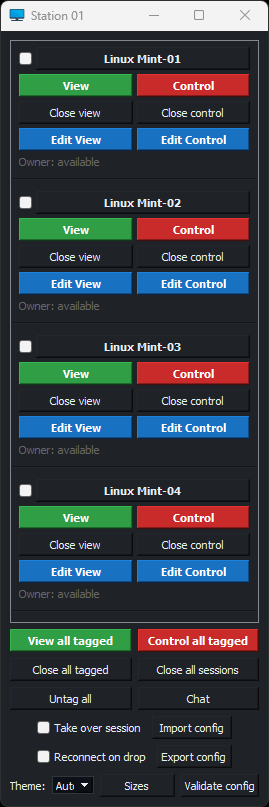
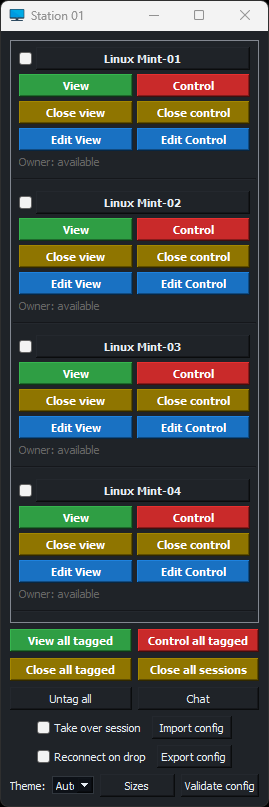
Updated Readme added som colors.

diff --git a/app/main_window.py b/app/main_window.py
@@ -71,11 +71,9 @@ class ConnectionRow:
         outer.addLayout(name_row)
 
         self.view_btn = QPushButton("View")
-        self.view_btn.setStyleSheet("background:#2f9e44; color:white; font-weight:700;")
         self.view_btn.clicked.connect(lambda: callbacks["open"](entry.name, MODE_VIEW))
 
         self.control_btn = QPushButton("Control")
-        self.control_btn.setStyleSheet("background:#c92a2a; color:white; font-weight:700;")
         self.control_btn.clicked.connect(lambda: callbacks["open"](entry.name, MODE_CONTROL))
         action_row = QHBoxLayout()
         action_row.addWidget(self.view_btn)
@@ -93,14 +91,10 @@ class ConnectionRow:
         outer.addLayout(close_row)
 
         self.edit_view_btn = QPushButton("Edit View")
-        self.edit_view_btn.setStyleSheet("background:#1971c2; color:white; font-weight:700;")
         self.edit_view_btn.clicked.connect(lambda: callbacks["edit"](entry.name, MODE_VIEW))
-        self.edit_view_btn.setEnabled(entry.view_vnc_path is not None)
 
         self.edit_control_btn = QPushButton("Edit Control")
-        self.edit_control_btn.setStyleSheet("background:#1971c2; color:white; font-weight:700;")
         self.edit_control_btn.clicked.connect(lambda: callbacks["edit"](entry.name, MODE_CONTROL))
-        self.edit_control_btn.setEnabled(entry.control_vnc_path is not None)
         edit_row = QHBoxLayout()
         edit_row.addWidget(self.edit_view_btn)
         edit_row.addWidget(self.edit_control_btn)
@@ -110,8 +104,39 @@ class ConnectionRow:
         self.owner_label.setStyleSheet("font-size:11px; color:#666;")
         outer.addWidget(self.owner_label)
 
-        self.view_btn.setEnabled(entry.view_vnc_path is not None)
-        self.control_btn.setEnabled(entry.control_vnc_path is not None)
+        view_available = entry.view_vnc_path is not None
+        control_available = entry.control_vnc_path is not None
+
+        self._apply_mode_button_style(self.view_btn, view_available, "#2f9e44")
+        self._apply_mode_button_style(self.control_btn, control_available, "#c92a2a")
+        self._apply_secondary_mode_button_style(self.close_view_btn, view_available, "#8f7500", "white")
+        self._apply_secondary_mode_button_style(self.close_control_btn, control_available, "#8f7500", "white")
+        self._apply_mode_button_style(self.edit_view_btn, view_available, "#1971c2")
+        self._apply_mode_button_style(self.edit_control_btn, control_available, "#1971c2")
+
+    @staticmethod
+    def _apply_mode_button_style(button: QPushButton, available: bool, active_bg: str) -> None:
+        """Set clear visual state for available/unavailable mode buttons."""
+        button.setEnabled(available)
+        if available:
+            button.setStyleSheet(f"background:{active_bg}; color:white; font-weight:700;")
+            button.setToolTip("")
+            return
+        button.setStyleSheet("background:#adb5bd; color:#495057; font-weight:700;")
+        button.setToolTip("No .vnc file available for this mode")
+
+    @staticmethod
+    def _apply_secondary_mode_button_style(
+        button: QPushButton, available: bool, active_bg: str, active_fg: str
+    ) -> None:
+        """Set visual state for secondary mode buttons (close/edit style variants)."""
+        button.setEnabled(available)
+        if available:
+            button.setStyleSheet(f"background:{active_bg}; color:{active_fg}; font-weight:700;")
+            button.setToolTip("")
+            return
+        button.setStyleSheet("background:#adb5bd; color:#495057; font-weight:700;")
+        button.setToolTip("No .vnc file available for this mode")
 
 
 class MainWindow(QMainWindow):
@@ -234,8 +259,10 @@ class MainWindow(QMainWindow):
         root.addLayout(actions_row2)
         close_tagged = QPushButton("Close all tagged")
         close_tagged.clicked.connect(self._close_tagged_sessions)
+        close_tagged.setStyleSheet("background:#8f7500; color:white; font-weight:700;")
         close_all = QPushButton("Close all sessions")
         close_all.clicked.connect(self._close_all_sessions)
+        close_all.setStyleSheet("background:#8f7500; color:white; font-weight:700;")
         actions_row2.addWidget(close_tagged)
         actions_row2.addWidget(close_all)
 

diff --git a/app/main.py b/app/main.py
@@ -5,14 +5,14 @@ import sys
 
 from PyQt5.QtWidgets import QApplication
 
-from .constants import APP_VERSION
 try:
+    from .constants import APP_VERSION
     from .logging_setup import configure_logging
     from .main_window import MainWindow
 except ImportError:  # Frozen/script fallback
+    from app.constants import APP_VERSION
     from app.logging_setup import configure_logging
     from app.main_window import MainWindow
-    from app.constants import APP_VERSION
 
 
 def main() -> int:

diff --git a/app/constants.py b/app/constants.py
@@ -3,7 +3,7 @@
 from pathlib import Path
 import sys
 
-APP_VERSION = "1.0.0"
+APP_VERSION = "1.0.1"
 
 
 # Base directory for user/runtime files.

diff --git a/app/__init__.py b/app/__init__.py
@@ -1,3 +1,3 @@
 """VNC Controller application package."""
 
-__version__ = "1.0.0"
+__version__ = "1.0.1"

diff --git a/README.md b/README.md
@@ -36,7 +36,7 @@ This project is MIT licensed (see `LICENSE` in the repository root).
 ### Expected File Layout
 
 ```text
-VNC-Station-001/
+VNC-Station/
   app/
   vnc-view/
   vnc-control/
@@ -69,7 +69,7 @@ Informational reference in the same folder:
 
 ```powershell
 git clone <your-repo-url>
-cd VNC-Station-001
+cd VNC-Station
 python -m venv .venv
 .\.venv\Scripts\Activate.ps1
 ```
@@ -176,7 +176,7 @@ Startup note:
 - Windows theme support (Auto/Light/Dark): keep UI consistent with operator environment.
 - Session cleanup on app exit: avoid orphaned VNC processes.
 - Config validation tool: catch missing/malformed files before operation.
-- Config import/export bundles: replicate JSON settings between stations quickly.
+- Config import/export bundles: replicate JSON settings and VNC-files between stations quickly.
 - Non-blocking toast notifications: reduce modal interruptions during operation.
 - Structured rotating logs in `logs/app.log`: easier troubleshooting and post-incident review.
 
@@ -186,7 +186,7 @@ Startup note:
 - `Export config` writes a zip bundle with `default.json` and all per-connection `.json` and `.vnc` files.
 - `Import config` restores `.json` and `.vnc` files from a bundle and refreshes the list.
 - `Sizes` opens the visual layout tool:
-  - movable frameless `VNC Preview` window (cross-screen)
+  - movable frameless `VNC Preview` window (cross-screen(s))
   - movable/resizable frameless `Label Preview` window (always-on-top)
   - `Load` target selector (`connection [view/control]`) with default fallback if JSON is missing
   - top `Save` saves to current selected target
@@ -232,3 +232,10 @@ Cleanup generated build artifacts:
 - Session lock logic prevents opening a connection already active on another station, unless `Take over session` is enabled.
 - The app stores UI preferences (theme, window sizes, reconnect toggle) via Windows `QSettings`.
 - At startup, the app performs a short session-sync handshake (`session_sync_request`) before enabling open actions.
+
+## TODO
+
+- Validate full production multi-monitor behavior on real hardware:
+  - 3-4x 4K screens
+  - 1-2x Full HD screens
+  - mixed-DPI setup checks for VNC window placement and label overlay alignment
